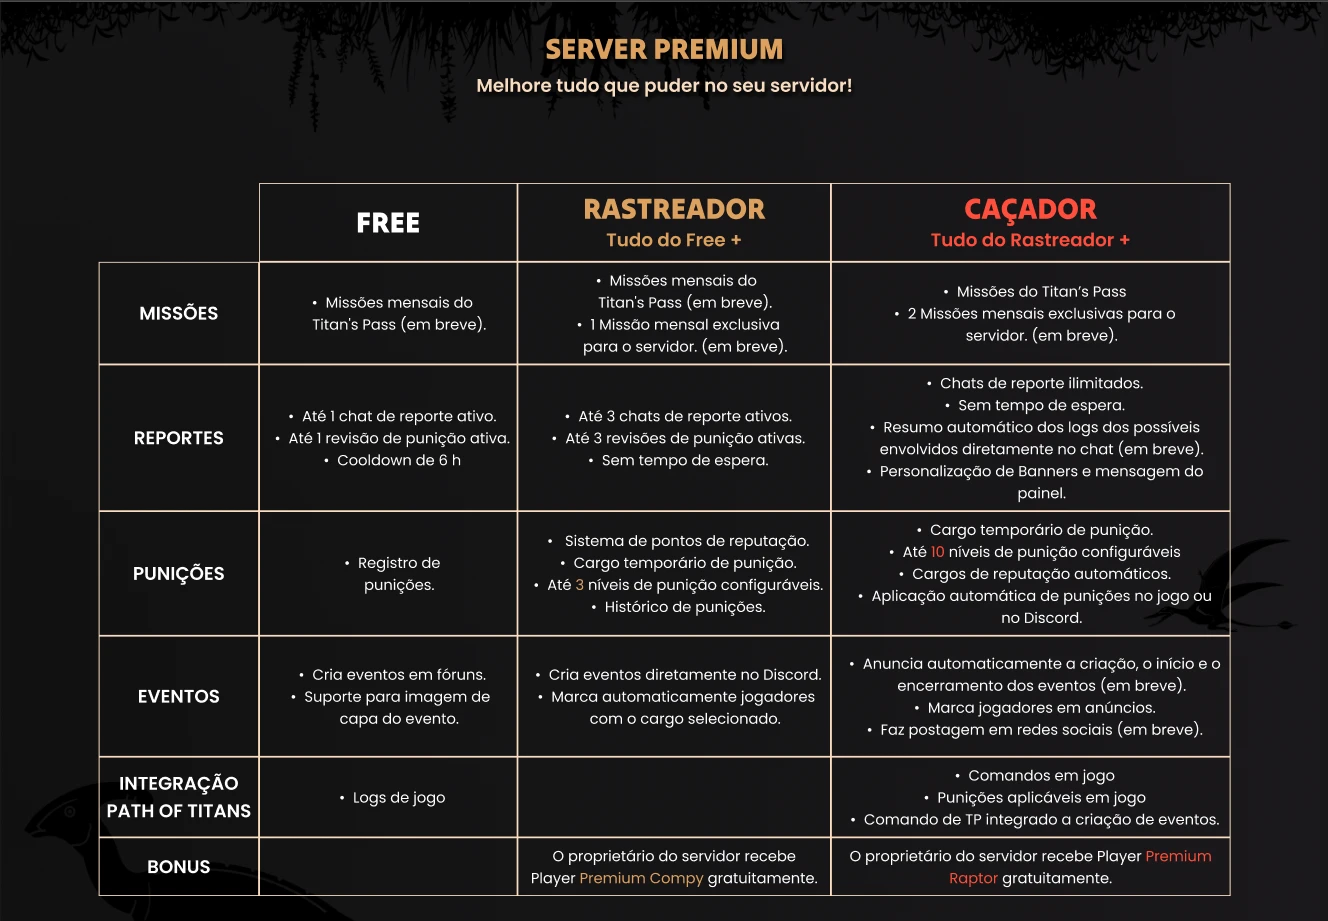
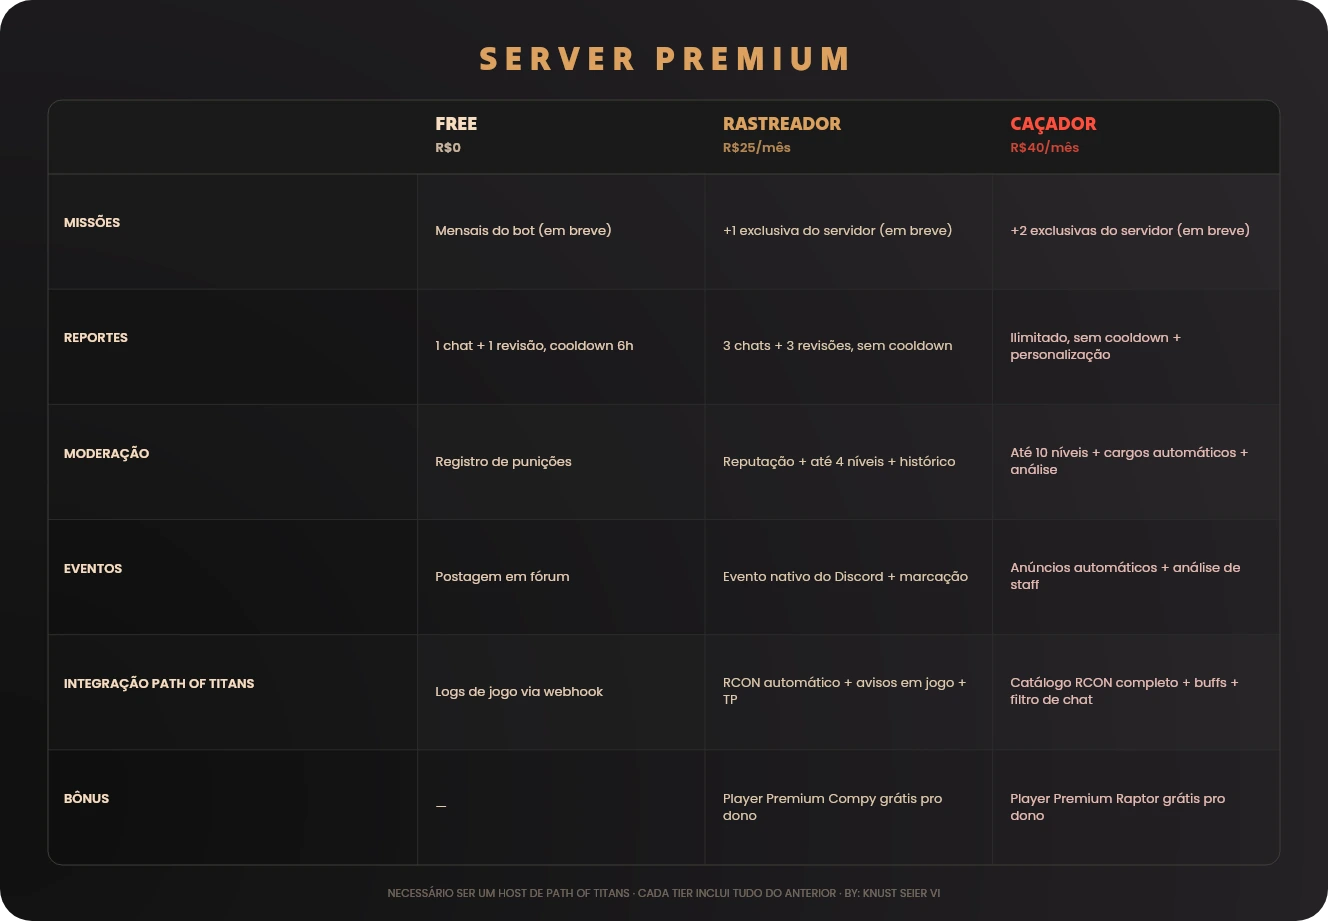
Gera as imagens de VIEW PLAYER PREMIUM e TABELA SERVER PREMIUM programaticamente
As duas imagens do painel /premium eram binários estáticos, sem fonte
editável — não dava pra saber se ainda mostravam o sorteio de skins
removido do texto (item 3 da lista de pendências), nem atualizar sem uma
ferramenta de design. Agora são geradas via @napi-rs/canvas + sharp
(mesma stack já usada por profileCardRenderer.js pros cards de /perfil),
com o texto/preço atual (mesmo conteúdo dos cards de preço em
web/views/hero.ejs): sem sorteio, Compy/Raptor ganhando Hunt por missão.

scripts/generate-premium-images.js fica no repo como ferramenta
reaproveitável (`npm run generate-premium-images`) — igual
convert-images-to-webp.js — pra regenerar as duas imagens sempre que o
conteúdo de tier mudar de novo, sem precisar abrir editor de imagem
nenhum. Layout validado antes via mockup HTML/CSS (Artifact) com as
fontes reais do projeto embutidas, depois portado pro canvas; conferido
visualmente linha a linha (Read direto no .webp gerado) antes de aplicar
— pegou um bug real (glifo de "✓" ausente na fonte Poppins, virava
tofu-box) corrigido com um check desenhado em vetor.

diff --git a/scripts/generate-premium-images.js b/scripts/generate-premium-images.js
@@ -1,0 +1,358 @@
+// scripts/generate-premium-images.js
+// Gera as duas imagens estáticas do painel /premium — VIEW PLAYER PREMIUM
+// (Player Premium: Free/Compy/Raptor) e TABELA SERVER PREMIUM (Server
+// Premium: Free/Rastreador/Caçador, 6 categorias) — via @napi-rs/canvas +
+// sharp, mesma stack já usada por src/utils/profileCardRenderer.js pros
+// cards de /perfil. Roda direto (`npm run generate-premium-images`) e
+// escreve por cima dos dois arquivos em assets/images/.
+//
+// Conteúdo (bullets/preços/categorias) fica hardcoded aqui de propósito —
+// mesmo texto já usado nos cards de preço de web/views/hero.ejs (seções
+// PLAYER PREMIUM/SERVER PREMIUM) e em PREMIUM.txt. Sempre que esse texto
+// mudar (preço, benefício novo, tier renomeado), atualiza os 3 lugares
+// juntos e roda este script de novo pra gerar as imagens combinando.
+//
+// Uso: node scripts/generate-premium-images.js
+const fs = require('fs');
+const path = require('path');
+const sharp = require('sharp');
+const { createCanvas, GlobalFonts } = require('@napi-rs/canvas');
+
+const PROJECT_ROOT = path.join(__dirname, '..');
+const FONTS_DIR = path.join(PROJECT_ROOT, 'assets', 'fonts');
+const OUT_DIR = path.join(PROJECT_ROOT, 'assets', 'images');
+
+GlobalFonts.registerFromPath(path.join(FONTS_DIR, 'TiltWarp.ttf'), 'Tilt Warp');
+GlobalFonts.registerFromPath(path.join(FONTS_DIR, 'Poppins-Regular.ttf'), 'Poppins Regular');
+GlobalFonts.registerFromPath(path.join(FONTS_DIR, 'Poppins-Medium.ttf'), 'Poppins Medium');
+GlobalFonts.registerFromPath(path.join(FONTS_DIR, 'Poppins-SemiBold.ttf'), 'Poppins SemiBold');
+
+// ==================== helpers ====================
+
+function roundRectPath(ctx, x, y, w, h, r) {
+    ctx.beginPath();
+    ctx.moveTo(x + r, y);
+    ctx.arcTo(x + w, y, x + w, y + h, r);
+    ctx.arcTo(x + w, y + h, x, y + h, r);
+    ctx.arcTo(x, y + h, x, y, r);
+    ctx.arcTo(x, y, x + w, y, r);
+    ctx.closePath();
+}
+
+// Aproxima o radial-gradient(225.25% 94.36% at 0% 86.37%, #111111 0%,
+// #1F1D20 57.07%, #29272A 91.53%) usado em TODO card escuro do site —
+// não é matematicamente idêntico ao CSS (canvas não faz elipse deslocada
+// do mesmo jeito), mas mesma sensação: mais claro/quente perto do canto
+// inferior esquerdo, escurecendo pro resto. Confirmado visualmente OK.
+function bgGradient(ctx, w, h) {
+    const cx = 0, cy = h * 0.8637;
+    const r = Math.max(w, h) * 1.35;
+    const g = ctx.createRadialGradient(cx, cy, 0, cx, cy, r);
+    g.addColorStop(0, '#111111');
+    g.addColorStop(0.57, '#1F1D20');
+    g.addColorStop(0.92, '#29272A');
+    g.addColorStop(1, '#29272A');
+    ctx.fillStyle = g;
+    ctx.fillRect(0, 0, w, h);
+}
+
+function wrapText(ctx, text, maxWidth) {
+    const words = String(text).split(' ');
+    const lines = [];
+    let current = '';
+    for (const word of words) {
+        const test = current ? `${current} ${word}` : word;
+        if (ctx.measureText(test).width > maxWidth && current) {
+            lines.push(current);
+            current = word;
+        } else {
+            current = test;
+        }
+    }
+    if (current) lines.push(current);
+    return lines;
+}
+
+function drawMultiline(ctx, text, x, y, maxWidth, lineHeight, align = 'left') {
+    const lines = wrapText(ctx, text, maxWidth);
+    const prevAlign = ctx.textAlign;
+    ctx.textAlign = align;
+    lines.forEach((line, i) => ctx.fillText(line, x, y + i * lineHeight));
+    ctx.textAlign = prevAlign;
+    return lines.length;
+}
+
+// Poppins não tem o glifo de "✓" (U+2713) — vira um tofu-box quadrado no
+// render real (confirmado visualmente na 1ª versão). Desenha um check
+// vetorial em vez de depender de glifo nenhum.
+function drawCheck(ctx, cx, cy, size, color) {
+    ctx.save();
+    ctx.strokeStyle = color;
+    ctx.lineWidth = Math.max(1.5, size * 0.16);
+    ctx.lineCap = 'round';
+    ctx.lineJoin = 'round';
+    ctx.beginPath();
+    ctx.moveTo(cx - size * 0.5, cy);
+    ctx.lineTo(cx - size * 0.12, cy + size * 0.38);
+    ctx.lineTo(cx + size * 0.55, cy - size * 0.4);
+    ctx.stroke();
+    ctx.restore();
+}
+
+async function saveWebp(canvas, filename) {
+    const pngBuffer = canvas.toBuffer('image/png');
+    const outPath = path.join(OUT_DIR, filename);
+    await sharp(pngBuffer).webp({ quality: 92 }).toFile(outPath);
+    console.log('✅ wrote', outPath);
+}
+
+// ==================== VIEW PLAYER PREMIUM (1480x685) ====================
+
+async function buildPlayerPremium() {
+    const W = 1480, H = 685;
+    const canvas = createCanvas(W, H);
+    const ctx = canvas.getContext('2d');
+
+    roundRectPath(ctx, 0, 0, W, H, 32);
+    ctx.save();
+    ctx.clip();
+    bgGradient(ctx, W, H);
+    ctx.restore();
+
+    const padX = 56, padTop = 40;
+    let y = padTop;
+
+    ctx.fillStyle = '#DCA15E';
+    ctx.font = '40px "Tilt Warp"';
+    ctx.textAlign = 'center';
+    ctx.textBaseline = 'alphabetic';
+    ctx.fillText('P L A Y E R   P R E M I U M', W / 2, y + 40);
+    y += 40 + 44;
+
+    const gap = 28;
+    const colW = (W - padX * 2 - gap * 2) / 3;
+    const colTop = y;
+    const colH = H - colTop - 36;
+
+    // Mesmo texto dos cards de preço em web/views/hero.ejs (seção PLAYER
+    // PREMIUM) — atualizar os dois juntos se um mudar.
+    const tiers = [
+        {
+            name: 'FREE', nameColor: '#F8DCC0', featured: false, price: null, inherits: null,
+            bullets: [
+                'Perfil sincronizado com o Discord',
+                'Badges de missões',
+                'Títulos de missões',
+                'Ganhe Hunt por hora de jogo',
+            ],
+        },
+        {
+            name: 'COMPY', nameColor: '#DCA15E', featured: true, price: 'R$10/mês', inherits: 'Tudo do Free +',
+            bullets: [
+                'Perfil personalizável pela loja',
+                'Badge exclusivo',
+                'Títulos exclusivos',
+                'Ganho extra de Hunt por missão concluída',
+            ],
+        },
+        {
+            name: 'RAPTOR', nameColor: '#FF4E3B', featured: false, price: 'R$25/mês', inherits: 'Tudo do Compy +',
+            bullets: [
+                'Perfil 100% personalizável com suas próprias imagens',
+                'Ganho extra de Hunt por Missão Titan concluída',
+            ],
+        },
+    ];
+
+    tiers.forEach((tier, i) => {
+        const cx = padX + i * (colW + gap);
+
+        roundRectPath(ctx, cx, colTop, colW, colH, 18);
+        ctx.fillStyle = '#1A1A1A';
+        ctx.fill();
+        ctx.lineWidth = tier.featured ? 2 : 1;
+        ctx.strokeStyle = tier.featured ? '#803E30' : '#3E3D38';
+        ctx.stroke();
+
+        const innerPad = 26;
+        let cy = colTop + innerPad;
+        const textX = cx + innerPad;
+        const textMaxW = colW - innerPad * 2;
+
+        ctx.textAlign = 'left';
+        ctx.fillStyle = tier.nameColor;
+        ctx.font = '24px "Tilt Warp"';
+        ctx.fillText(tier.name, textX, cy + 22);
+        cy += 22 + 14;
+
+        if (tier.price) {
+            ctx.font = '26px "Tilt Warp"';
+            ctx.fillStyle = tier.nameColor;
+            ctx.fillText(tier.price, textX, cy + 20);
+            cy += 20 + 16;
+        } else {
+            cy += 20 + 16;
+        }
+
+        if (tier.inherits) {
+            ctx.font = '13px "Poppins Regular"';
+            ctx.fillStyle = 'rgba(248,220,192,0.6)';
+            ctx.fillText(tier.inherits, textX, cy + 12);
+            cy += 12 + 18;
+        } else {
+            cy += 6;
+        }
+
+        ctx.font = '15px "Poppins Regular"';
+        const lineH = 20;
+        for (const bullet of tier.bullets) {
+            const checkW = 20;
+            drawCheck(ctx, textX + 6, cy + 9, 11, '#F8DCC0');
+            ctx.fillStyle = 'rgba(248,220,192,0.95)';
+            const linesUsed = drawMultiline(ctx, bullet, textX + checkW, cy + 14, textMaxW - checkW, lineH, 'left');
+            cy += linesUsed * lineH + 8;
+        }
+    });
+
+    ctx.textAlign = 'center';
+    ctx.font = '12px "Poppins Regular"';
+    ctx.fillStyle = 'rgba(248,220,192,0.4)';
+    ctx.fillText('BY: KNUST SEIER VI', W / 2, H - 16);
+
+    await saveWebp(canvas, 'VIEW PLAYER PREMIUM.webp');
+}
+
+// ==================== TABELA SERVER PREMIUM (1328x921) ====================
+
+async function buildServerPremium() {
+    const W = 1328, H = 921;
+    const canvas = createCanvas(W, H);
+    const ctx = canvas.getContext('2d');
+
+    roundRectPath(ctx, 0, 0, W, H, 32);
+    ctx.save();
+    ctx.clip();
+    bgGradient(ctx, W, H);
+    ctx.restore();
+
+    const padX = 48, padTop = 36;
+    let y = padTop;
+
+    ctx.textAlign = 'center';
+    ctx.fillStyle = '#DCA15E';
+    ctx.font = '34px "Tilt Warp"';
+    ctx.fillText('S E R V E R   P R E M I U M', W / 2, y + 34);
+    y += 34 + 30;
+
+    const tableTop = y;
+    const tableBottom = H - 56;
+    const tableH = tableBottom - tableTop;
+    const tableW = W - padX * 2;
+    const labelColW = tableW * 0.30;
+    const tierColW = (tableW - labelColW) / 3;
+    const headH = 74;
+    // Condensado a partir de web/views/hero.ejs (serverRows/serverTiers,
+    // seção SERVER PREMIUM) — frases inteiras viram 1 linha curta por
+    // célula (a versão completa mora no site/PREMIUM.txt).
+    const rows = [
+        { label: 'MISSÕES', free: 'Mensais do bot (em breve)', rast: '+1 exclusiva do servidor (em breve)', cac: '+2 exclusivas do servidor (em breve)' },
+        { label: 'REPORTES', free: '1 chat + 1 revisão, cooldown 6h', rast: '3 chats + 3 revisões, sem cooldown', cac: 'Ilimitado, sem cooldown + personalização' },
+        { label: 'MODERAÇÃO', free: 'Registro de punições', rast: 'Reputação + até 4 níveis + histórico', cac: 'Até 10 níveis + cargos automáticos + análise' },
+        { label: 'EVENTOS', free: 'Postagem em fórum', rast: 'Evento nativo do Discord + marcação', cac: 'Anúncios automáticos + análise de staff' },
+        { label: 'INTEGRAÇÃO PATH OF TITANS', free: 'Logs de jogo via webhook', rast: 'RCON automático + avisos em jogo + TP', cac: 'Catálogo RCON completo + buffs + filtro de chat' },
+        { label: 'BÔNUS', free: '—', rast: 'Player Premium Compy grátis pro dono', cac: 'Player Premium Raptor grátis pro dono' },
+    ];
+    const rowH = (tableH - headH) / rows.length;
+
+    roundRectPath(ctx, padX, tableTop, tableW, tableH, 14);
+    ctx.save();
+    ctx.clip();
+
+    ctx.fillStyle = '#1A1A1A';
+    ctx.fillRect(padX, tableTop, tableW, headH);
+
+    const tierCols = [
+        { x: padX + labelColW, name: 'FREE', color: '#F8DCC0', price: 'R$0' },
+        { x: padX + labelColW + tierColW, name: 'RASTREADOR', color: '#DCA15E', price: 'R$25/mês' },
+        { x: padX + labelColW + tierColW * 2, name: 'CAÇADOR', color: '#FF4E3B', price: 'R$40/mês' },
+    ];
+    ctx.textAlign = 'left';
+    tierCols.forEach(col => {
+        const tx = col.x + 18;
+        ctx.fillStyle = col.color;
+        ctx.font = '19px "Tilt Warp"';
+        ctx.fillText(col.name, tx, tableTop + 30);
+        ctx.font = '13px "Poppins SemiBold"';
+        ctx.globalAlpha = 0.8;
+        ctx.fillText(col.price, tx, tableTop + 52);
+        ctx.globalAlpha = 1;
+    });
+
+    let ry = tableTop + headH;
+    rows.forEach((row, i) => {
+        if (i % 2 === 0) {
+            ctx.fillStyle = 'rgba(255,255,255,0.02)';
+            ctx.fillRect(padX, ry, tableW, rowH);
+        }
+        ctx.fillStyle = 'rgba(0,0,0,0.15)';
+        ctx.fillRect(padX, ry, labelColW, rowH);
+        ctx.fillStyle = '#F8DCC0';
+        ctx.font = '13px "Poppins SemiBold"';
+        ctx.textAlign = 'left';
+        drawMultiline(ctx, row.label, padX + 16, ry + rowH / 2 - 4, labelColW - 32, 16, 'left');
+
+        const cellText = (text, x, colorAlpha) => {
+            ctx.font = '13px "Poppins Regular"';
+            ctx.fillStyle = colorAlpha;
+            const maxW = tierColW - 36;
+            const lineH = 17;
+            const lines = wrapText(ctx, text, maxW);
+            const startY = ry + rowH / 2 - ((lines.length - 1) * lineH) / 2 + 4;
+            lines.forEach((line, li) => ctx.fillText(line, x + 18, startY + li * lineH));
+        };
+        cellText(row.free, tierCols[0].x, 'rgba(248,220,192,0.92)');
+        cellText(row.rast, tierCols[1].x, 'rgba(240,217,184,0.92)');
+        cellText(row.cac, tierCols[2].x, 'rgba(248,201,192,0.92)');
+
+        ctx.strokeStyle = '#2A2A2A';
+        ctx.lineWidth = 1;
+        [tierCols[0].x, tierCols[1].x, tierCols[2].x].forEach(vx => {
+            ctx.beginPath();
+            ctx.moveTo(vx, ry);
+            ctx.lineTo(vx, ry + rowH);
+            ctx.stroke();
+        });
+        if (i > 0) {
+            ctx.beginPath();
+            ctx.moveTo(padX, ry);
+            ctx.lineTo(padX + tableW, ry);
+            ctx.stroke();
+        }
+
+        ry += rowH;
+    });
+
+    ctx.restore();
+    roundRectPath(ctx, padX, tableTop, tableW, tableH, 14);
+    ctx.strokeStyle = '#3E3D38';
+    ctx.lineWidth = 1;
+    ctx.stroke();
+    ctx.beginPath();
+    ctx.moveTo(padX, tableTop + headH);
+    ctx.lineTo(padX + tableW, tableTop + headH);
+    ctx.strokeStyle = '#3E3D38';
+    ctx.stroke();
+
+    ctx.textAlign = 'center';
+    ctx.font = '11px "Poppins Regular"';
+    ctx.fillStyle = 'rgba(248,220,192,0.4)';
+    ctx.fillText('NECESSÁRIO SER UM HOST DE PATH OF TITANS · CADA TIER INCLUI TUDO DO ANTERIOR · BY: KNUST SEIER VI', W / 2, H - 24);
+
+    await saveWebp(canvas, 'TABELA SERVER PREMIUM.webp');
+}
+
+(async () => {
+    if (!fs.existsSync(OUT_DIR)) fs.mkdirSync(OUT_DIR, { recursive: true });
+    await buildPlayerPremium();
+    await buildServerPremium();
+})();
